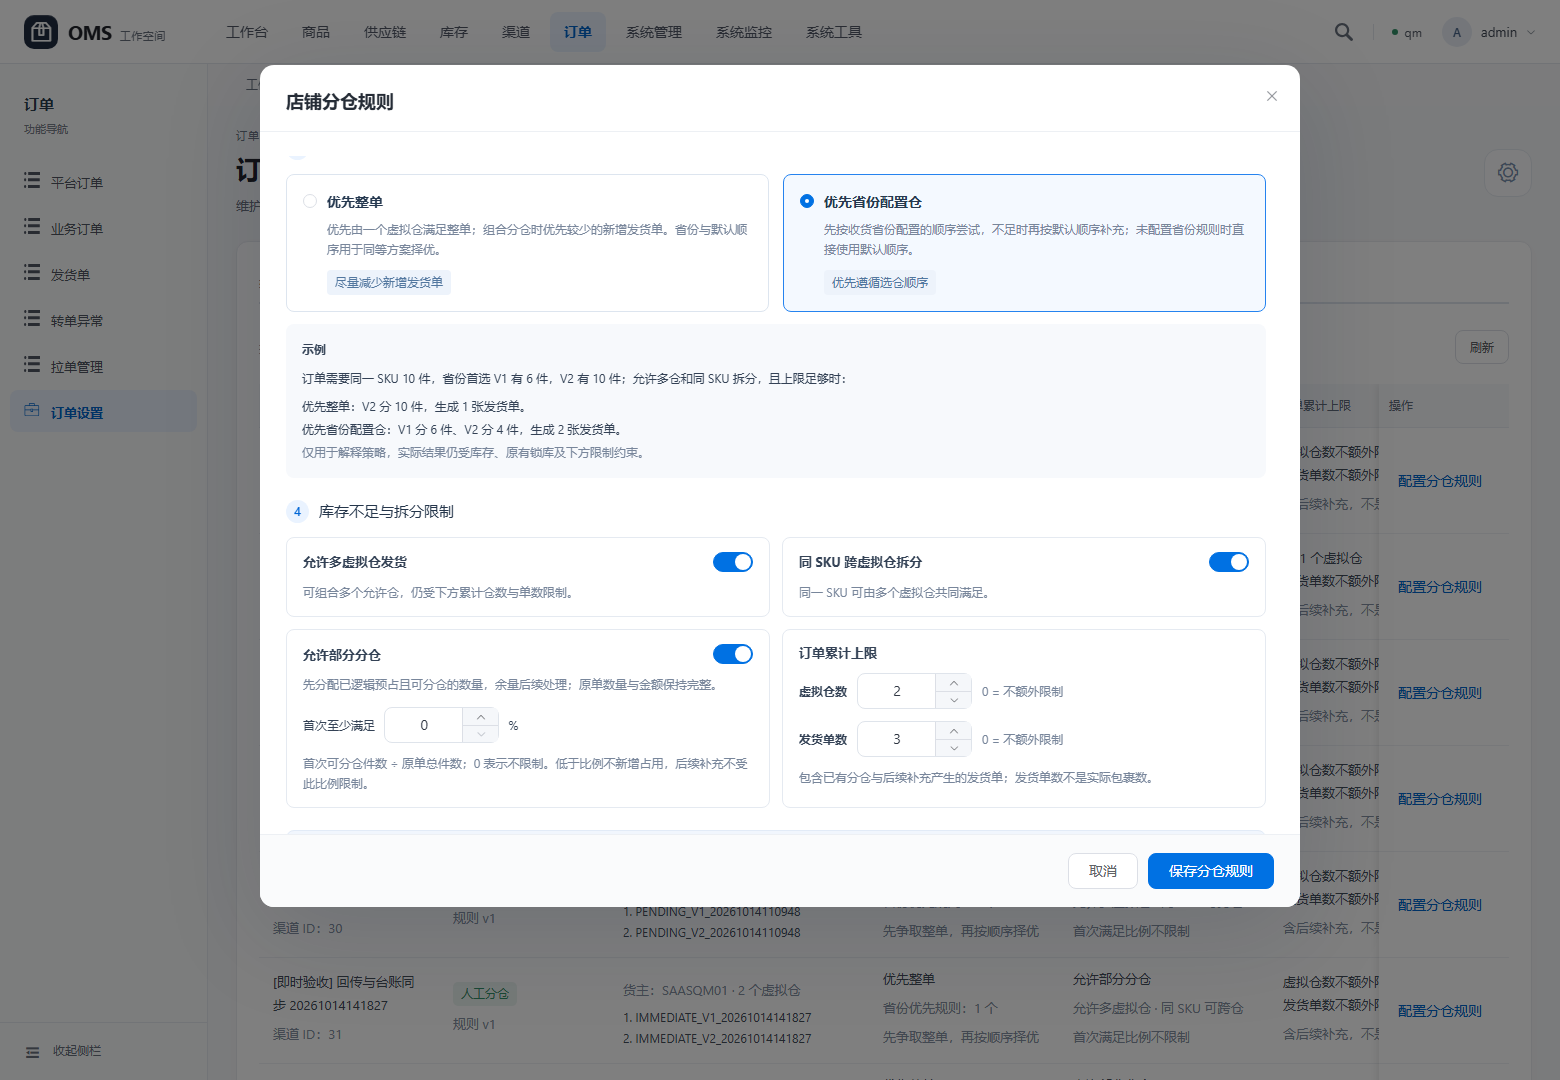
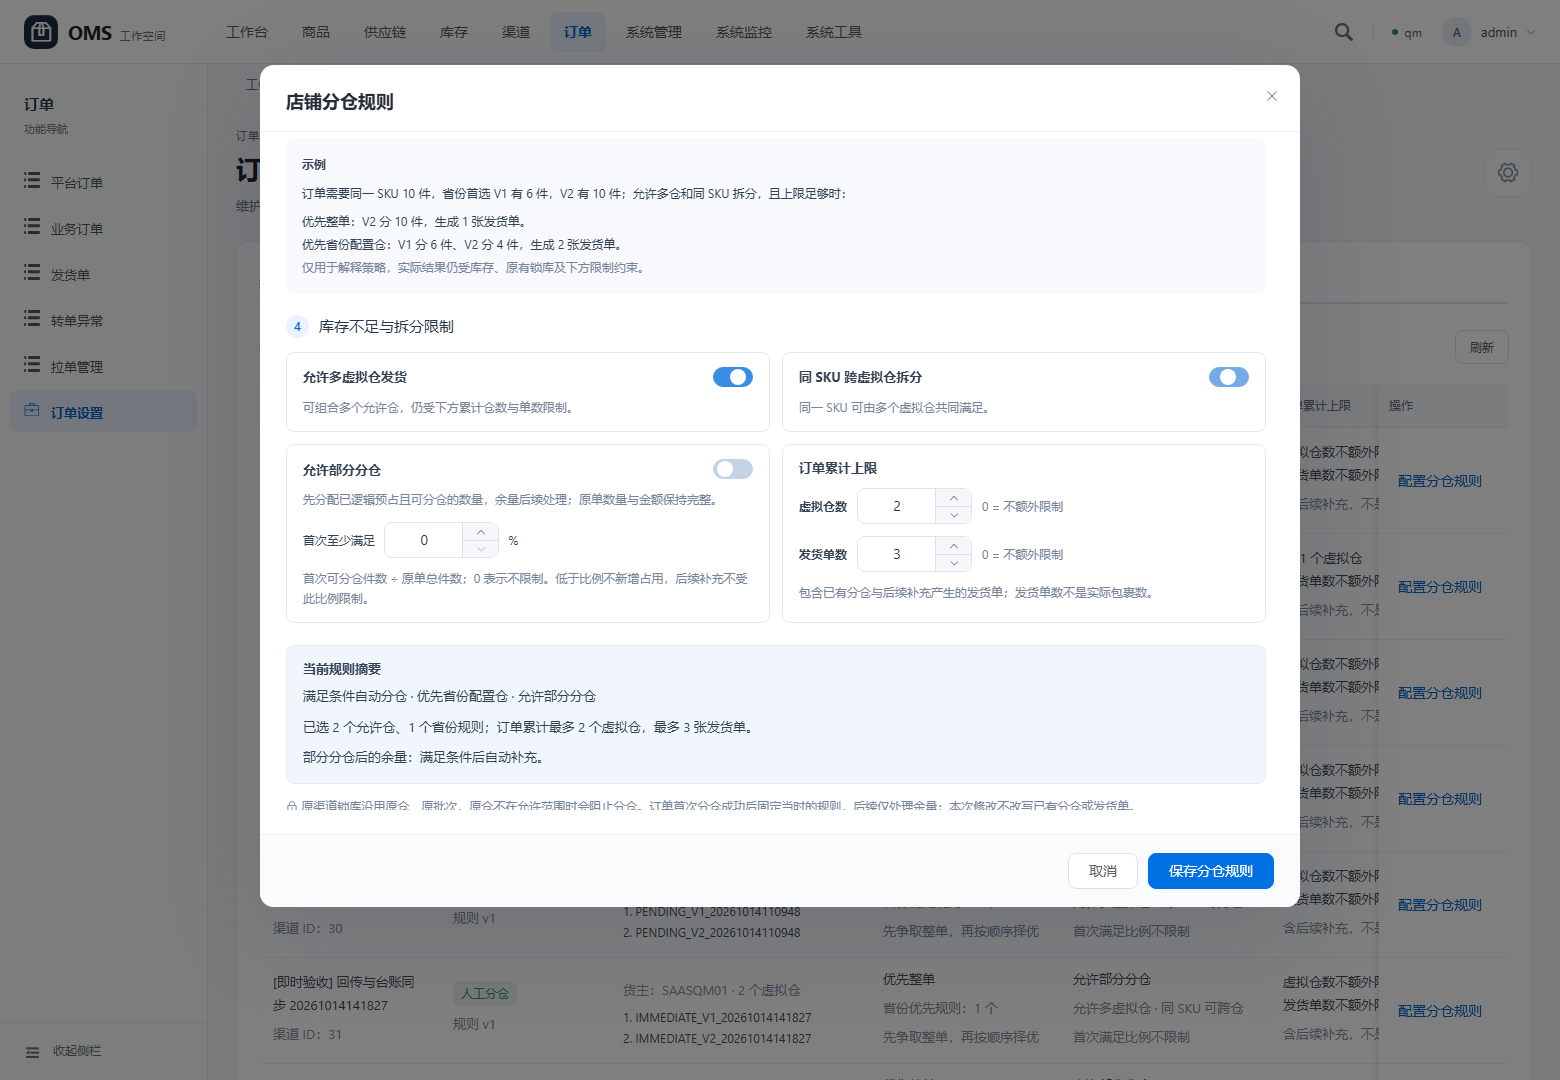
test: 更新分仓UI验证脚本及截图
更新了分仓UI的验证脚本，修复了元素定位逻辑，适配了新的UI交互方式，同时添加了多场景下的UI验证截图及对应的验证配置文件，确保分仓功能在不同场景下的显示和交互符合预期

diff --git a/docker/local/verify_allocation_ui.py b/docker/local/verify_allocation_ui.py
@@ -31,11 +31,11 @@ def main():
             jump(d,'2 允许仓与顺序')
             d.get_by_role('button',name='默认仓库下移 '+v1,exact=True).click()
             assert v2 in d.locator('.rank-row').first.inner_text()
-            d.locator('.province-row .el-select').nth(1).locator('.el-input__inner').click()
-            page.locator('.el-select-dropdown:visible').get_by_text(re.compile(re.escape(v2))).click();page.keyboard.press('Escape')
+            d.locator('.province-rule').first.evaluate('(e)=>e.scrollIntoView({block: "center"})');d.locator('.province-row .el-select').nth(1).locator('.el-input__suffix').click()
+            page.locator('.el-select-dropdown:visible').get_by_text(re.compile(re.escape(v2))).click();d.get_by_text('省份优先仓',exact=True).click()
             d.get_by_role('button',name='省份仓库上移 '+v2,exact=True).click()
             assert v2 in d.locator('.province-rank').first.inner_text()
-            d.get_by_role('button',name='添加省份优先规则',exact=True).click()
+            d.get_by_text('添加省份优先规则',exact=True).click()
             d.get_by_role('button',name='保存分仓规则',exact=True).click()
             expect(page.get_by_text('请完整填写省份优先仓，或删除空白规则',exact=True)).to_be_visible()
             assert request(path,token=token)['data']['revision']==original['revision']
@@ -52,7 +52,7 @@ def main():
             changed=request(path,token=token)['data']['policy']
             assert changed['execution_mode']=='MANUAL' and changed['auto_replenish']==policy['auto_replenish'] and changed['allow_multi']==0 and changed['allow_split_sku']==0 and changed['allow_partial']==0 and changed['strategy']=='FEWEST_SHIPMENTS'
             assert changed['warehouse_order']==[v2,v1] and changed['province_priorities']=={'北京':[v2,v1]}
-            row=page.locator('.el-table__body tr').filter(has_text=case['channel_name']).filter(has_text='配置分仓规则');expect(row).to_contain_text('限 1 个虚拟仓')
+            row=page.locator('.el-table__body tr').filter(has_text=case['channel_name']).filter(has_text='配置分仓规则').first;expect(row).to_contain_text('限 1 个虚拟仓')
             d=open_config();d.get_by_text('满足条件自动分仓',exact=True).click()
             jump(d,'2 允许仓与顺序');d.get_by_role('button',name='默认仓库下移 '+v2,exact=True).click()
             d.get_by_role('button',name='省份仓库上移 '+v1,exact=True).click()
@@ -66,7 +66,7 @@ def main():
             d.get_by_role('button',name='保存分仓规则',exact=True).click();expect(d).not_to_be_visible()
             assert request(path,token=token)['data']['policy']==policy;restored=True
             page.screenshot(path=str(OUT/'settings-list.png'))
-            context.set_viewport_size({'width':1280,'height':720});d=open_config();jump(d,'4 库存与拆分');expect(d.get_by_role('button',name='保存分仓规则',exact=True)).to_be_in_viewport();expect(d.get_by_text('库存不足与拆分限制',exact=True)).to_be_in_viewport()
+            page.set_viewport_size({'width':1280,'height':720});d=open_config();jump(d,'4 库存与拆分');expect(d.get_by_role('button',name='保存分仓规则',exact=True)).to_be_in_viewport();expect(d.get_by_text('库存不足与拆分限制',exact=True)).to_be_in_viewport()
             assert d.locator('.allocation-layout').evaluate('(e)=>e.scrollWidth<=e.clientWidth+1')
             page.screenshot(path=str(OUT/'compact-screen.png'));assert not errors,errors;browser.close()
         after=request('/order/orders/business/42',token=token)['data']
